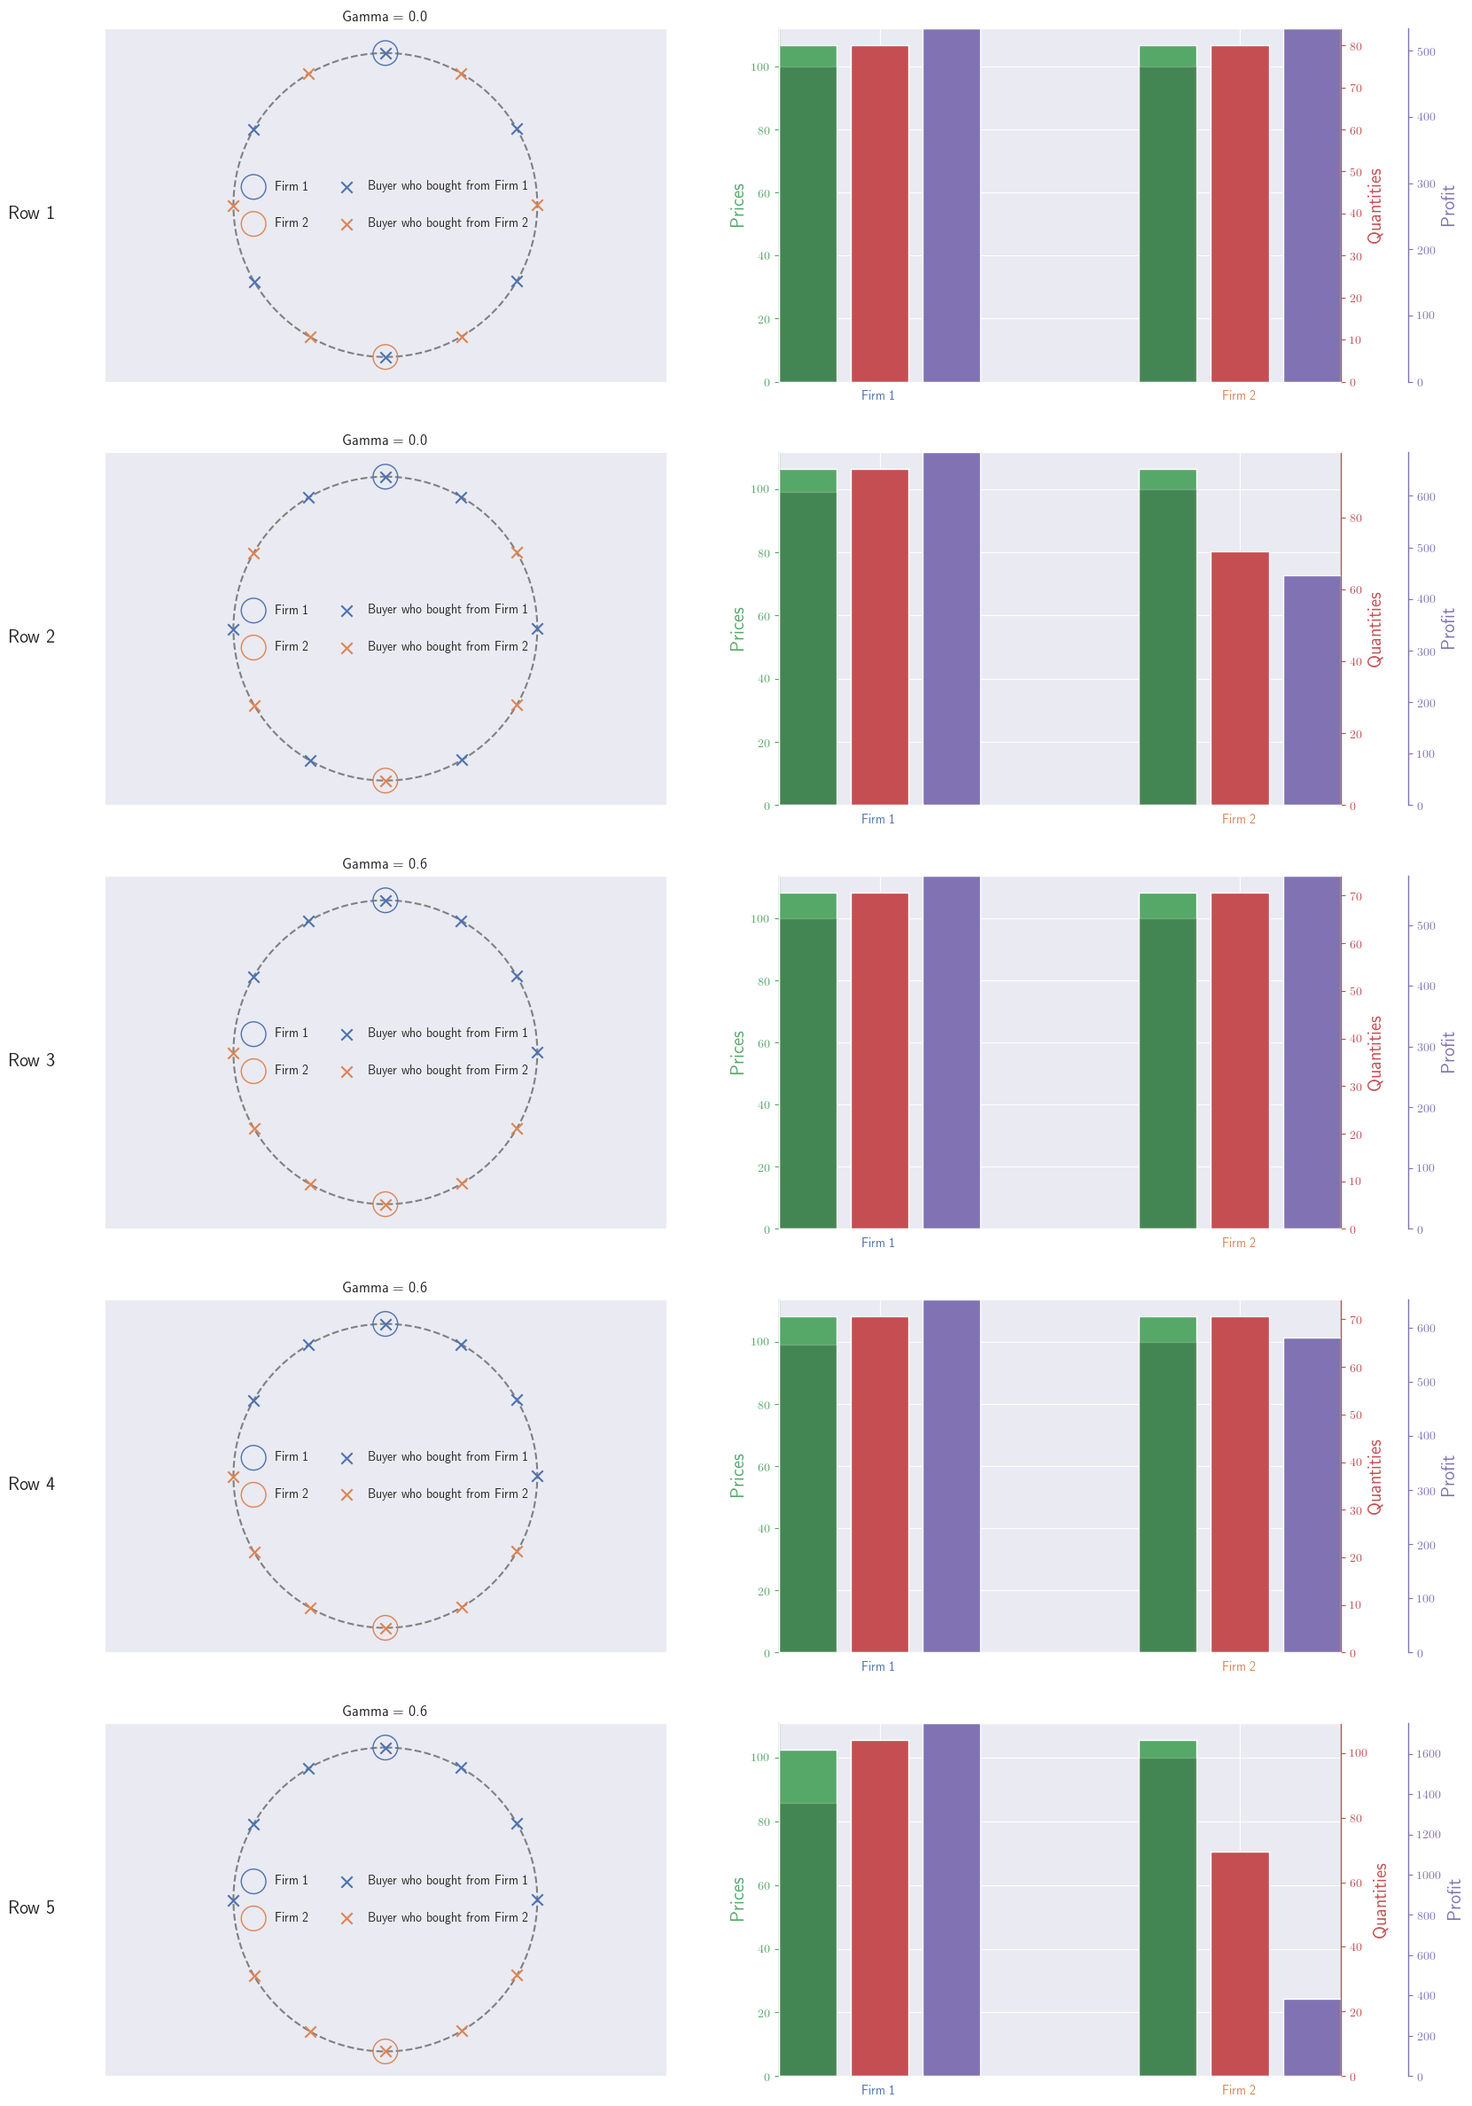
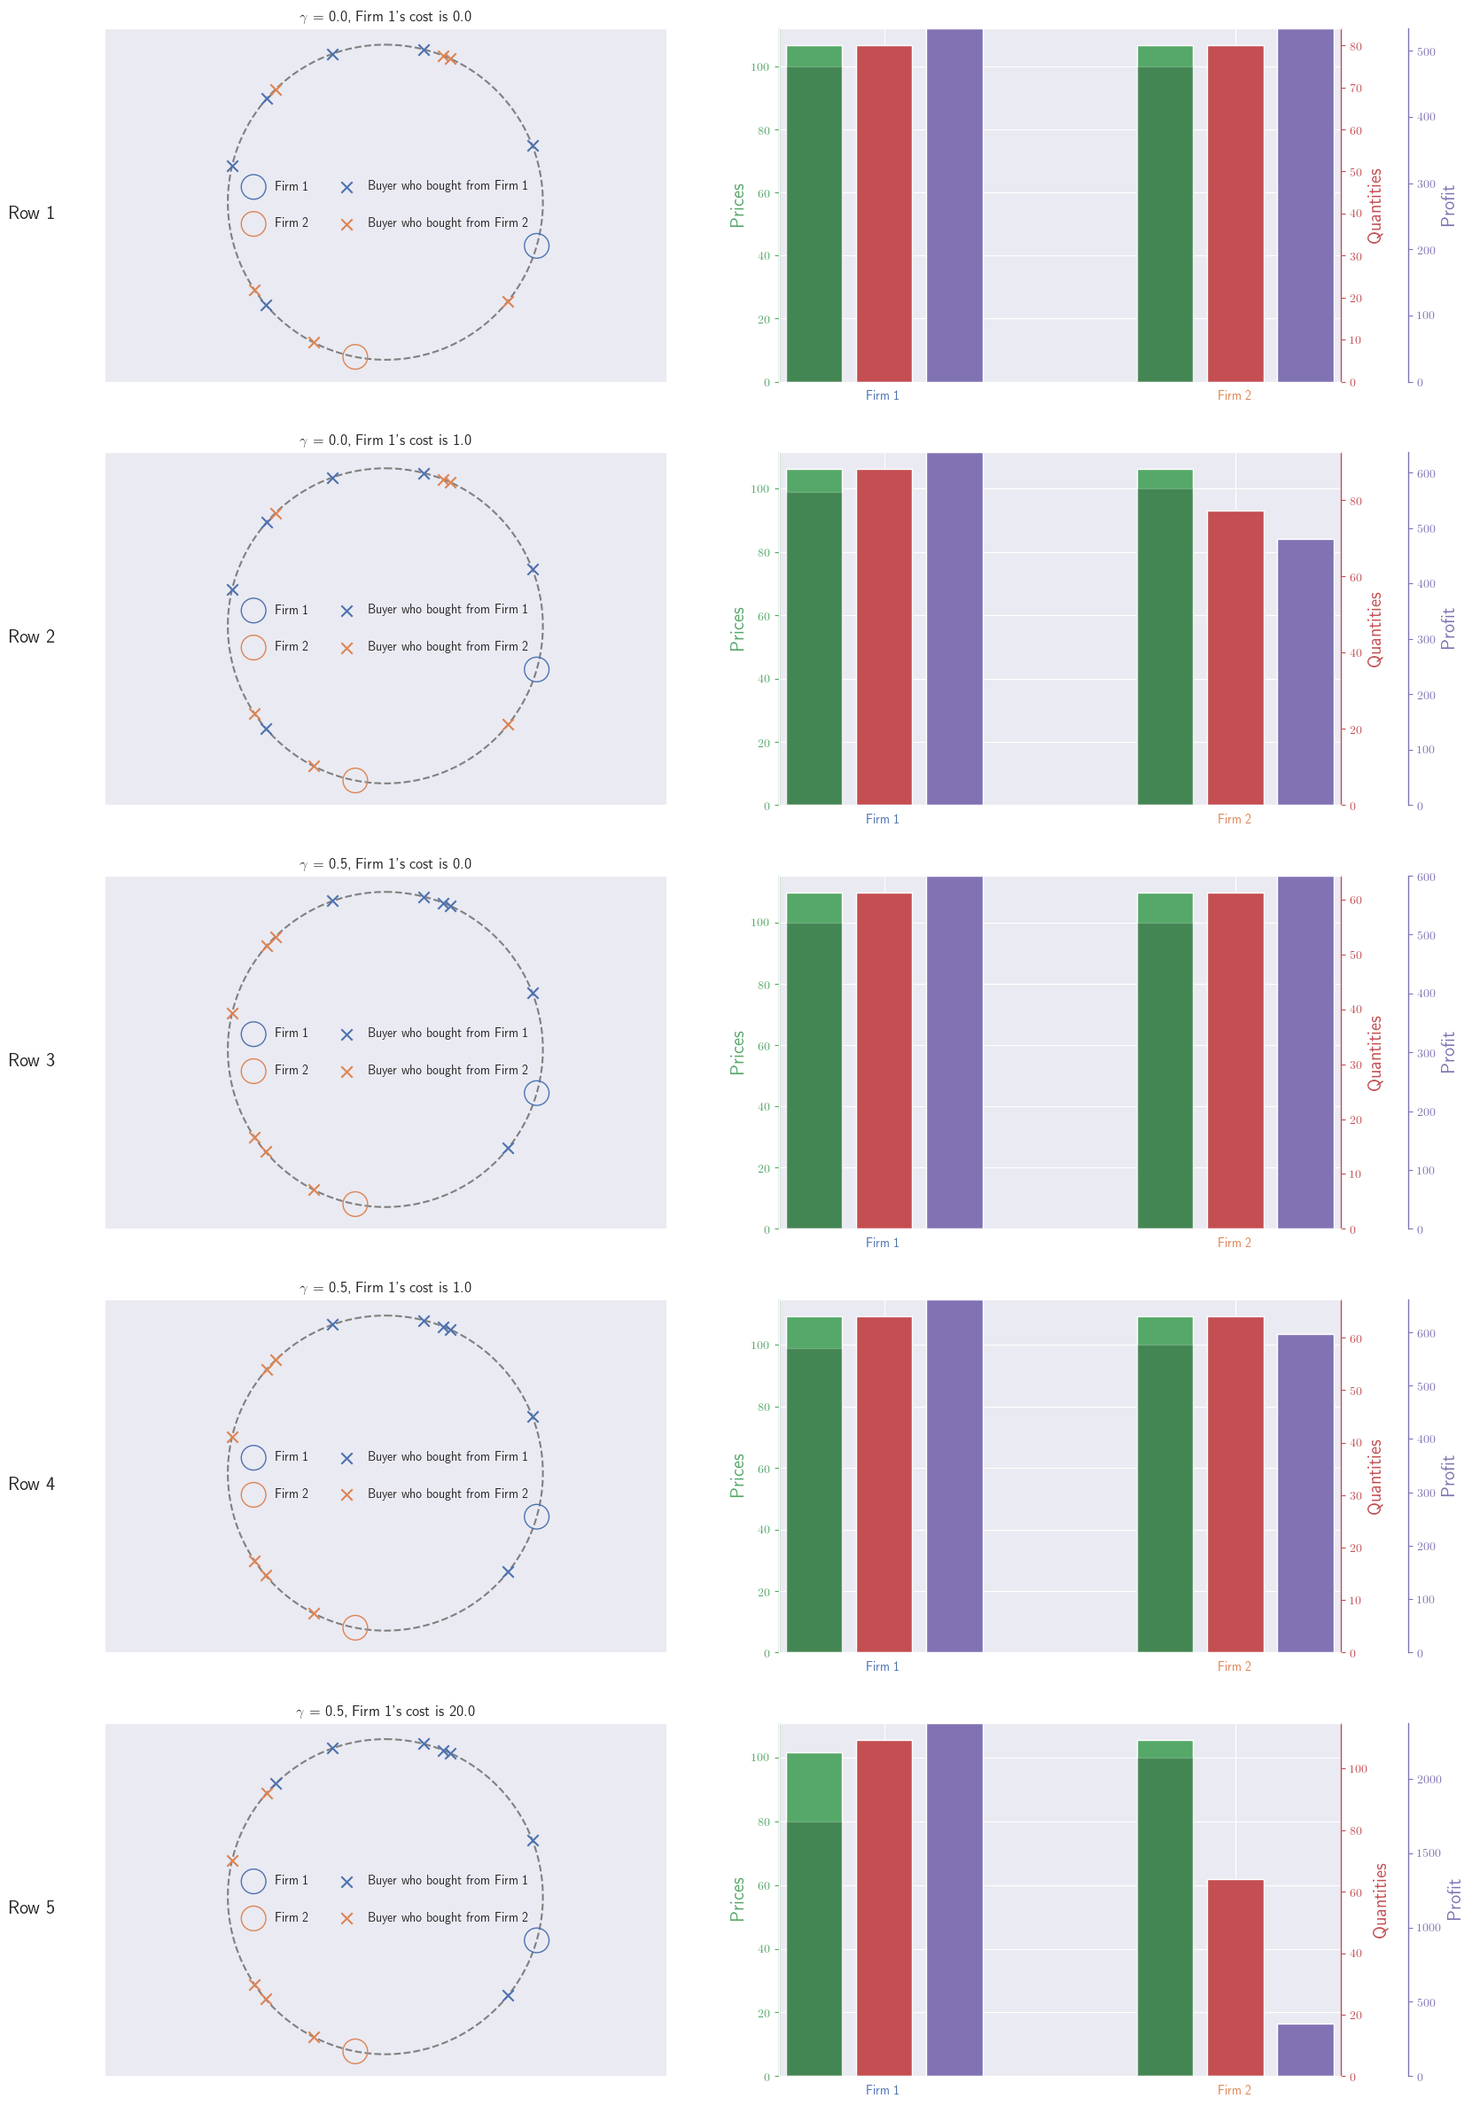
Writing imporovements

diff --git a/writing/Paper/main.tex b/writing/Paper/main.tex
@@ -10,6 +10,9 @@
 \usepackage[dvipsnames,usenames]{color}
 \usepackage[colorlinks=true,linkcolor=NavyBlue,citecolor=NavyBlue,urlcolor=NavyBlue]{hyperref} % for hyperlinks 
 \usepackage{floatpag}
+\usepackage{hyperref}
+\usepackage[backend=biber,style=authoryear]{biblatex}
+\bibliography{refs}
 
 % macros 
 %%%%%%%%%%%%%%%%%%%%%%%%%%%%%%%%%%%%%%%%%%%%%%%%%%%%%%%%%%%%%%%%%%%%%%%%%%%%
@@ -81,26 +84,26 @@ over time and build up an advantage over other firms. This is especially true
 with network based firms, where quality of the product is dwarfed by quantity
 of the network. 
 
+\green{If we don't add the start up stuff, delete this.}
 With enough market power, a profit seeking firm will try to raise barriers to
 entry to prevent competition. This stops firms that have new innovations from
 surviving long enough to succeed in a market. The distance based tax introduced
 in this paper allows start ups to overcome entrenched monopolies' unfair
 advantages.
 
-In this paper, we propose a new distance based tax, which we call an
-idiosyncratic tax, in order to solve these
-problems, then show that it works by modelling an economy that implements the
-tax. In section 2 we give an overview of this economy. In section 3 we
-formalize the model, and discuss how the firms compete on capacity and price.
-In section 4, we discuss results of running the model. In section 5 we expand
-the model by allowing for multiple timesteps, and having firms decrease their
-costs based on previous profits as a form of investment.
+In this paper, we propose an idiosyncratic tax based on distance in order to
+solve these problems, then show that it works by modelling an economy that
+implements the tax. In section 2 we give an overview of this economy. In
+section 3 we formalize the model, and discuss how the firms compete on capacity
+and price. In section 4, we discuss results of running the model. In section 5
+we expand the model by allowing for multiple timesteps, and having firms
+decrease their costs based on previous profits as a form of investment.
 %[change as we add sections]
 
 \section{Economy}
 We simulate an economy of buyers and firms in some environment with a distance
-metric (e.g. a country, a network economy), then see how firms respond when we
-apply the idiosyncratic tax.
+metric (e.g. a country, a network economy), then observe how firms respond when
+we apply the idiosyncratic tax.
 
 \subsection{Geography}
 The geography of our model is one-dimensional with periodic boundaries (i.e.
@@ -110,7 +113,7 @@ two points (`agents') $x$,$y$ on the circle. Without loss of generality, we set
 $L=1$. Our model does not rely on the implemented geography, and any other,
 potentially more realistic topology could be considered.
 
-The left insets of Figure \pageref{fig:fig3x2SingleTimestep} are examples of
+The left insets of Figure \ref{fig:fig3x2SingleTimestep} are examples of
 such a geography.
 
 \subsection{Buyers}
@@ -128,13 +131,16 @@ is easier to change a price tag.
 
 \subsection{Idiosyncratic Tax}
 The idiosyncratic tax that is introduced by this paper is dependent on a
-distance measuere $D$, or ordinal distance, that gives a discrete distance
-between every pair of buyers and firms. $D$ is defined such that the closest
-firm to a buyer is at ordinal distance $D=1$, the next closest at $D=2$, and
-the $n$th closest at $D=n$. Consider a firm and two buyers, one buyer near the
-firm, the other distant. The idiosyncratic tax means that the nearer buyer can
-buy more cheaply from that firm than can the more distant one. This
-incentivizes buyers to purchase from more local firms.
+distance measure $D$, or ordinal distance, that gives a discrete distance
+between every pair of buyers and firms. We define the ordinal distance $D$ be
+defined such that the closest firm to a buyer is at ordinal distance $D=1$, the
+next closest at $D=2$, and the $n$th closest at $D=n$. Consider a subset of a
+larger economy consisting of a firm and two buyers, one buyer near the firm,
+the other distant. \green{right here I am trying to express show that because
+of the tax, two buyer's can perceive different prices at the same firm.} The
+idiosyncratic tax means that the nearer buyer can buy more cheaply from that
+firm than can the more distant one. This incentivizes buyers to purchase from
+more local firms.
 
 Crucially, this ordinal distance is calculated for every individual type of
 product. This means that a dentist and a bakery do not increase each other's
@@ -147,9 +153,9 @@ When firms choose capacity and price, they make their choices in order to
 maximize profit. First, the firms compete on capacity, by simultaneously
 declaring how much of the product they plan to produce; next, they compete on
 price to determine the firms' non-tax prices. This process, consisting of these
-two subgames, is called a Kreps-Scheinkman game. The major difference we
-introduce to the classical Kreps-Scheinkman game is the idiosyncratic tax,
-which significantly alters the pricing subgame.
+two subgames, is called a Kreps-Scheinkman game \cite{kreps1983quantity}.
+The major difference we introduce to the classical Kreps-Scheinkman game is the
+idiosyncratic tax, which significantly alters the pricing subgame.
 
 \subsection{Capacity Game}
 The first choice is how much capacity $\hat q_i$ each firm $i$ wishes to
@@ -162,8 +168,11 @@ The capacity subgame acts much like a Cournot game.\footnote{A Cournot game is
 where firms compete only on quantity, and sell all of the quantity at the
 market clearing price.} The difference is that instead of being assigned a
 market clearing price and selling everything they produce, in our model the
-firms compete on price in a second subgame where they choose a price. Only
-after that do the buyers determine how much of each firms capacity is sold.
+firms compete on price in a second subgame where they choose a price. This
+subgame is necessary because the idiosyncratic tax can provide incentive for
+firms to charge different prices. For example, a firm with low costs trying to
+sell to non-local buyers would need to price undercut those customer's local
+firm.
 
 \subsection{Pricing Game}
 Each firm $i$, having chosen a capacity $\hat q_i$, now chooses a price, $p_i$.
@@ -172,16 +181,15 @@ with one machine selling soda at a cheaper price than the other. In this
 subgame, buyers will use the cheaper machine first, but if the buyers demand
 more soda than that machine's capacity, buyers will switch to the more
 expensive machine when the cheaper one runs out of soda. Competition on price
-in such a manner is called an Edgeworth game. Edgeworth games are very
-difficult to find an equilibrium in, as depending on demand and capacity, a
-variety of strategies can be employed.
+in such a manner is called an Edgeworth game.
 
 By choosing a lower price, a firm can undercut competitors, ensuring that
 buyers choose to buy from them instead of other firms. Since the amount a buyer
 purchases increases as the product gets less expensive, a lower price increases
 the amount of product purchased in total. But the capacity limitation on total
 quantity sold by a firm means that a single firm usually can't sell to the
-entire market, and it could be more profitable to just sell a low quantity at a much higher price.
+entire market, and it could be more profitable to just sell a low quantity at a
+much higher price.
 
 \subsection{Idiosyncratic Tax}
 The idiosyncratic tax is designed to promote buyers purchasing locally by
@@ -223,8 +231,10 @@ Let the set of buyers be called $B$. Each buyer $b\in B$ buys a quantity $q_b =
 firm $i$. The buyer's all have identical demand curves $p_\text{max} + q_b =
 a$, where $a$ is the endowment they are given exogenously, and $p_\text{max}$
 is the maximum price they pay (including tax). Each buyer tries to maximize
-$q_b$ while keeping $P + Q \le a$. In other words, they buy from the cheapest
-available firm until they hit the demand curve.
+$q_b$ while keeping $p_\text{max} + q_b \le a$. In other words, they buy from
+the cheapest available firm until they hit the demand curve and stop buying, or
+the firm runs out of capacity and the buyer begins buying from the next
+cheapest, repeating the process.
 
 If a buyer perceives multiple firms as offering identical prices, they buy from
 all such firms in identical amounts until either the buyer hits their demand
@@ -232,17 +242,15 @@ curve, or a seller runs out of capacity.
 
 \subsection{Profit Function}
 Finally, firm $i$, having chosen quantity $\hat q_i$ and price $p_i$, and
-having sold the product to buyers, will earn a profit:
+having sold some or all of their capacity to buyers, will earn a profit:
 
 \begin{equation}
     \Pi_i = p_i\sum_{b\in B} q_{b,i} - c_i\hat q_i.
 \end{equation}
 
-Note that while the firm can choose both their capacity $\hat q_i$ and their
-price $p_i$, their cost per unit $c_i$ is set exogenously. Also, each $q_{b,i}$
-is chosen by the buyer $b$ so that they buy as much as possible while staying
-under their demand curve $P+Q\leq a$; this is where taxes affect the firm's
-profit.
+Also, each $q_{b,i}$ is chosen by the buyer $b$ so that they buy as much as
+possible while staying under their demand curve $P+Q\leq a$; this is where
+taxes affect the firm's profit.
 
 If the firm sells all of their capacity, then $q_i = \hat q_i$, and the profit
 equation simplifies to:
@@ -253,7 +261,7 @@ which is the net profit per unit multiplied by quantity sold.
 
 \subsection{Numerical Approximation}
 Because the buyers have individualized preferences and the pricing game does
-not necessarily have a `best' strategy, it is difficult to determine a
+not necessarily have a `best' price choice, it is difficult to determine a
 generalized, theoretical solution to the model laid out above. Instead, we
 numerically determine the Nash equilibrium.\footnote{A Nash equilibrium
 for a game is a set of choices, one for each player, such that upon seeing the
@@ -264,34 +272,32 @@ either capacity or price, depending on the subgame.}
 To find the capacities and prices that the firms will choose, we begin by
 discretizing the capacity and pricing choices so we only have a finite number
 of possible combinations. Then, for every outcome of the capacity game, we find
-the Nash equilibrium of the pricing game using the Python library Gambit. Then,
-using the equilibrium prices, we calculate the profits for every outcome of the
-capacity game. We finally use this information to find the Nash equilibrium of
-the capacity game, again using Gambit.
+the Nash equilibrium of the pricing game using the Python library Gambit
+\cite{gambitPython}. Then, using the equilibrium prices, we calculate the
+profits for every outcome of the capacity game. We finally use this information
+to find the Nash equilibrium of the capacity game.
 
 \section{Examples}
-Figure \ref{fig:fig3x2SingleTimestep} contains the output of five instances
-of finding the numerical solution for different $\gamma$ and costs. In the
-first two rows $\gamma=0$, with the one difference being that in Row 1, both
-Firm 1 and Firm 2 have the same cost, and in Row 2, Firm 1 has a 1\% lower cost
-than Firm 2. In Row 1, the firms sell the same amount of product and make the
-same amount of profit. But in Row 2, Firm 1 sells 33\% more quantity and makes
-53\% more profit. As a side note, since when $\gamma = 0$ there is no tax on
-distance, we can see on the left insets of these rows that buyers do not
-necessarily buy from the closest firm.
+In Figure \ref{fig:fig3x2SingleTimestep} we can see the idiosyncratic tax
+dampen Firm 1's attempts to become a monopoly power. In Rows 1 and 2, there is
+no tax as $\gamma = 0$. While Firm 1 and 2 have an equal cost per unit, no firm
+can become a monopoly. But if we reduce Firm 1's cost per unit by $1\%$, they
+sell 14\% more than their competition, and earn 33\% more profit, which is out
+of proportion to Firm 1's actual accomplishment, and can lead to
+anti-competitive behavior by Firm 1.
 
-In the Rows 3, 4, and 5, we let $\gamma = .5$ instead. In Row 3 we can see a
+In contrast, in Rows 3, 4, and 5, we let $\gamma = 1$. In Row 3 we can see a
 mirror of Row 1, where both firms, faced with the same costs, produce the same
 quantity, and make the same profit. But in row 4, where we give Firm 1 the same
 advantage we game them in the row 2, they sell the same amount, and only make
-12\% more profit than Firm 2. To increase their market share, Firm 1 needs to
-reduce their costs to 80\% of Firm 2, as shown in row 5.
+12\% more profit than Firm 2, which implies that our tax protects Firm 2 from
+small decrease in Firm 1's cost per unit. To increase their market share, Firm
+1 needs to reduce their costs to 80\% of Firm 2, as shown in row 5.
 
-The idiosyncratic tax thus acts as a dampener, preventing companies with
-slight advantages from acquiring overwhelming market dominance, while still
-ensuring that minor innovations are profitable. But, if one firm is
-significantly better, as in Row 5, then that firm will still dominate the
-market.
+The idiosyncratic tax thus dampens monopolistic tendencies of firms with slight
+competitive advantages, while still ensuring that minor innovations are
+profitable. But, if one firm is significantly better, as in Row 5, then that
+firm will still dominate the market.
 
 \begin{figure}[[p!htb] % p stands for 'entire page', '!htb' is to insert as close to code as possible
   \floatpagestyle{empty} % remove page number
@@ -299,26 +305,28 @@ market.
   \vspace{-2cm} % shift upwards to get more space for caption
   \includegraphics[width=\linewidth]{5x2plot.png}
   \caption{\small{Above are the model's results for a variety of
-  conditions. The Rows 1 and 2 have $\gamma=0$, while Rows 3, 4, and 5 have
-  $\gamma = .5$. In Rows 1 and 3, the firms have an equal cost per unit, sell
+  conditions. The Rows 1 and 2 have $\gamma=0.0$, while Rows 3, 4, and 5 have
+  $\gamma = 0.5$. In Rows 1 and 3, the firms have an equal cost per unit, sell
   equal quantity, and make equal profit. In Row 2, where $\gamma=0$, a 1\%
-  difference in cost means Firm 1 has a 10\% greater market share, and a 53\%
+  difference in cost implies Firm 1 sells 14\% more quantity, and earns a 33\%
   larger profit.
   In Row 4, where $\gamma=.5$, Firm 1's 1\% difference in cost now results in
-  an equal market share, but they still profit 12\% more. To get a larger
+  an equal market share, but they still profit 11\% more. To get a larger
   market share, as in Row 5, Firm 1 must have a 20\% lower cost per unit. This
-  means that $\gamma$ acts as a dampener on monopolization by increasing the
-  amount of innovation needed to gain market power while still encouraging
-  innovation. %[Check numbers after new gamma]
+  implies that $\gamma$ dampens a firm's ability to gain market power from
+  small innovations, without significantly discouraging innovation. 
+  %[Check numbers after new gamma]
   }}
   \label{fig:fig3x2SingleTimestep}
 \end{figure}
 
 \section{Dynamics}
 We run this model once for every timestep, then update the costs for the firms
-between the timesteps. Every timestep we determine which firm has made the most
-profit. For that firm, we reduce its cost per unit by 5\% in order to simulate
-the company investing its excess profits in itself to become more profitable in
-the long term. 
+between the timesteps. Every timestep we split a 5\% decrease in costs between
+the firms according to the fraction of total profit the Firm makes. For
+example, if Firm 1 earned a profit of 80, and Firm 2 earned a profit of 20,
+then Firm 1's per unit cost would decrease by 4\%, and Firm 1's by 1\%.
 
+\newpage
+\printbibliography
 \end{document}
